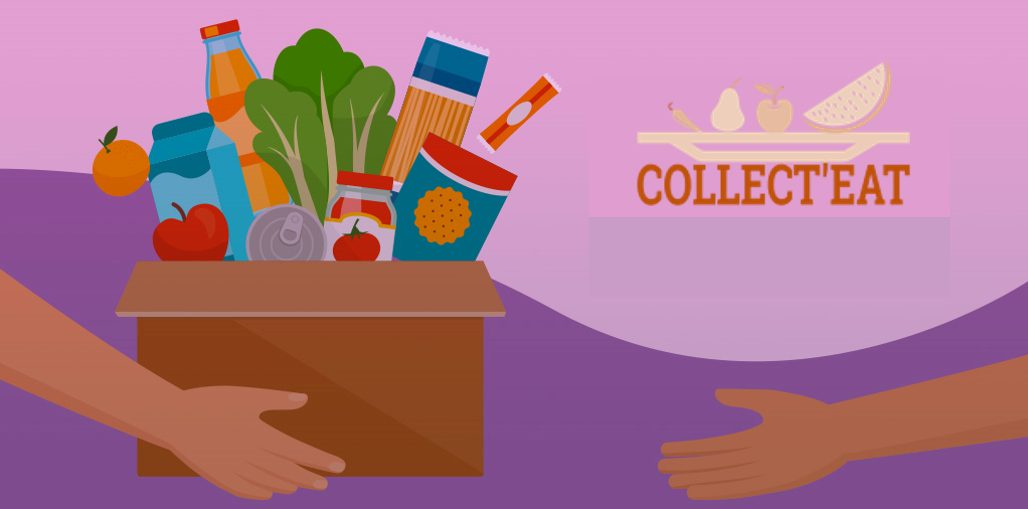
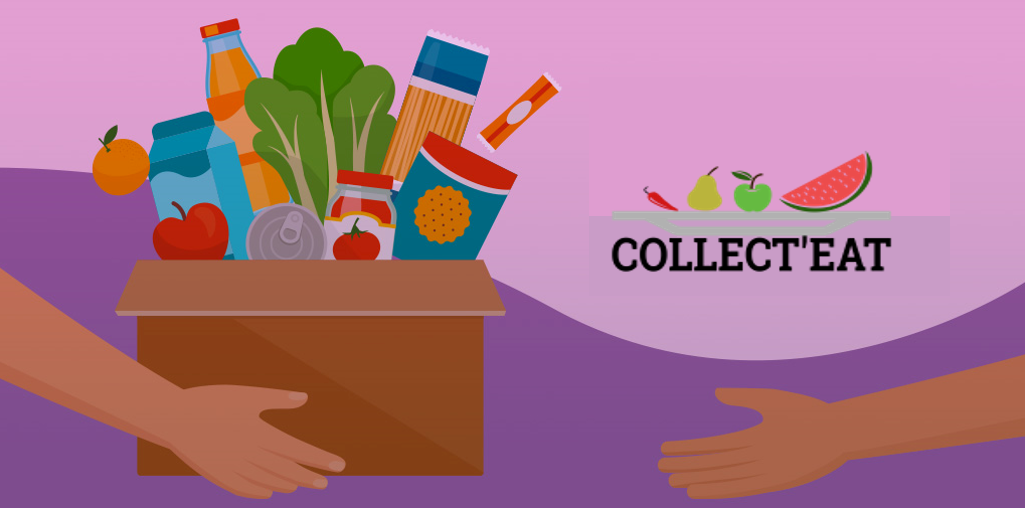
added tuto + design fixes

diff --git a/src/app/app.component.html b/src/app/app.component.html
@@ -1,129 +1,6 @@
 <ion-app [class.dark-theme]="dark">
   <ion-split-pane contentId="main-content">
 
-    <ion-menu contentId="main-content">
-      <ion-content>
-        <ion-list *ngIf="role === 'user'" lines="none">
-          <ion-list-header>
-            Conference
-          </ion-list-header>
-          <ion-menu-toggle autoHide="false" *ngFor="let p of appPages; let i = index">
-            <ion-item [routerLink]="p.url" routerLinkActive="selected" routerDirection="root" detail="false">
-              <ion-icon slot="start" [name]="p.icon + '-outline'"></ion-icon>
-              <ion-label>
-                {{p.title}}
-              </ion-label>
-            </ion-item>
-
-          </ion-menu-toggle>
-        </ion-list>
-
-        <ion-list *ngIf="loggedIn" lines="none">
-          <ion-list-header>
-            Account
-          </ion-list-header>
-
-          <ion-menu-toggle *ngIf="role === 'user'" autoHide="false">
-            <ion-item routerLink="/account" routerLinkActive="active" routerDirection="root" detail="false">
-              <ion-icon slot="start" name="person"></ion-icon>
-              <ion-label>
-                Account
-              </ion-label>
-            </ion-item>
-          </ion-menu-toggle>
-
-          <ion-menu-toggle autoHide="false">
-            <ion-item routerLink="/support" routerLinkActive="active" routerDirection="root" detail="false">
-              <ion-icon slot="start" name="help"></ion-icon>
-              <ion-label>
-                Support
-              </ion-label>
-            </ion-item>
-          </ion-menu-toggle>
-
-          <ion-menu-toggle autoHide="false">
-            <ion-item button (click)="logout()" detail="false">
-              <ion-icon slot="start" name="log-out"></ion-icon>
-              <ion-label>
-                Logout
-              </ion-label>
-            </ion-item>
-          </ion-menu-toggle>
-
-          <ion-menu-toggle *ngIf="role === 'mairie'" autoHide="false">
-            <ion-item routerLink="/signup" routerLinkActive="active" routerDirection="root" detail="false">
-              <ion-icon slot="start" name="person-add"></ion-icon>
-              <ion-label>
-                Signup
-              </ion-label>
-            </ion-item>
-          </ion-menu-toggle>
-
-          <ion-item>
-            <ion-icon slot="start" name="moon-outline"></ion-icon>
-            <ion-label>
-              Dark Mode
-            </ion-label>
-            <ion-toggle [(ngModel)]="dark"></ion-toggle>
-          </ion-item>
-
-        </ion-list>
-
-        <ion-list *ngIf="!loggedIn" lines="none">
-          <ion-list-header>
-            Account
-          </ion-list-header>
-
-          <ion-menu-toggle autoHide="false">
-            <ion-item routerLink="/login" routerLinkActive="active" routerDirection="root" detail="false">
-              <ion-icon slot="start" name="log-in"></ion-icon>
-              <ion-label>
-                Login
-              </ion-label>
-            </ion-item>
-          </ion-menu-toggle>
-
-          <ion-menu-toggle autoHide="false">
-            <ion-item routerLink="/support" routerLinkActive="active" routerDirection="root" detail="false">
-              <ion-icon slot="start" name="help"></ion-icon>
-              <ion-label>
-                Support
-              </ion-label>
-            </ion-item>
-          </ion-menu-toggle>
-
-          <ion-menu-toggle *ngIf="role === 'mairie'" autoHide="false">
-            <ion-item routerLink="/signup" routerLinkActive="active" routerDirection="root" detail="false">
-              <ion-icon slot="start" name="person-add"></ion-icon>
-              <ion-label>
-                Signup
-              </ion-label>
-            </ion-item>
-          </ion-menu-toggle>
-
-          <ion-item>
-            <ion-icon slot="start" name="moon-outline"></ion-icon>
-            <ion-label>
-              Dark Mode
-            </ion-label>
-            <ion-toggle [(ngModel)]="dark"></ion-toggle>
-          </ion-item>
-        </ion-list>
-
-        <ion-list lines="none">
-          <ion-list-header>
-            Tutorial
-          </ion-list-header>
-          <ion-menu-toggle autoHide="false">
-            <ion-item button (click)="openTutorial()" detail="false">
-              <ion-icon slot="start" name="hammer"></ion-icon>
-              <ion-label>Show Tutorial</ion-label>
-            </ion-item>
-          </ion-menu-toggle>
-        </ion-list>
-      </ion-content>
-    </ion-menu>
-
     <ion-router-outlet id="main-content"></ion-router-outlet>
 
   </ion-split-pane>

diff --git a/src/app/pages/tutorial/tutorial.html b/src/app/pages/tutorial/tutorial.html
@@ -1,7 +1,7 @@
 <ion-header no-border>
   <ion-toolbar>
     <ion-buttons slot="end">
-      <ion-button color='primary' (click)="startApp()" [hidden]="!showSkip">Skip</ion-button>
+      <ion-button class="skip" color='white' (click)="startApp()" [hidden]="!showSkip">Passer</ion-button>
     </ion-buttons>
   </ion-toolbar>
 </ion-header>
@@ -9,39 +9,60 @@
 <ion-content fullscreen="true">
   <ion-slides #slides (ionSlideWillChange)="onSlideChangeStart($event)" pager="false">
     <ion-slide>
-      <img src="assets/img/ica-slidebox-img-1.png" class="slide-image" />
+      <img src="assets/img/logo.png"  />
       <h2 class="slide-title">
-        Welcome to
-        <b>ICA</b>
+        Bienvenue sur
+        <b>Collect'EAT !</b>
       </h2>
       <p>
-        The
-        <b>ionic conference app</b> is a practical preview of the ionic framework in action, and a demonstration of proper code
-        use.
+        L'application
+        <b>Collect'EAT</b> permet de vous accompagner dans votre quotidien afin de faciliter l'accès à vos droits, nous allons ici vous présenter les différentes fonctionalités.
+        <br/><br/>
+        <b>Faites glisser l'écran pour continuer</b>
       </p>
     </ion-slide>
 
     <ion-slide>
-      <img src="assets/img/ica-slidebox-img-2.png" class="slide-image" />
-      <h2 class="slide-title">What is Ionic?</h2>
+      <img src="assets/img/menu.PNG" class="slide-image" />
+      <h2 class="slide-title">Menu principal</h2>
       <p>
-        <b>Ionic Framework</b> is an open source SDK that enables developers to build high quality mobile apps with web technologies
-        like HTML, CSS, and JavaScript.</p>
+        Le menu principal de l'application vous d'accéder rapidement à toutes les fonctionalités proposées</p>
     </ion-slide>
 
     <ion-slide>
-      <img src="assets/img/ica-slidebox-img-3.png" class="slide-image" />
-      <h2 class="slide-title">What is Ionic Appflow?</h2>
+      <img src="assets/img/qr-code.PNG" class="slide-image" />
+      <h2 class="slide-title">Pass collecte <ion-icon name="qr-code" class="big"></ion-icon></h2>
       <p>
-        <b>Ionic Appflow</b> is a powerful set of services and features built on top of Ionic Framework that brings a totally new
-        level of app development agility to mobile dev teams.</p>
+        Le bouton <b>Pass collecte</b> permet de générer un QR-code à présenter lors de la distribution des paniers repas afin de pouvoir retirer votre panier.</p>
     </ion-slide>
 
     <ion-slide>
-      <img src="assets/img/ica-slidebox-img-4.png" class="slide-image" />
-      <h2 class="slide-title">Ready to Play?</h2>
+      <img src="assets/img/map.PNG" class="slide-image" />
+      <h2 class="slide-title">Trouver le centre de distribution <ion-icon class="big" name="navigate"></ion-icon> </h2>
+      <p>
+        Le bouton <b>Trouver le centre de distribution</b> affiche une carte vous indiquant le centre de distribution où retirer votre panier repas.</p>
+    </ion-slide>
+
+    <ion-slide>
+      <img src="assets/img/safe.png" class="slide-image" />
+      <h2 class="slide-title">Coffre-fort numérique <ion-icon class="big" name="lock-closed"></ion-icon> </h2>
+      <p>
+        Le bouton <b>Coffre-fort numérique</b> permet d'accéder à votre espace de sotckage sécurisée où vous pouvez ajouter vos documents</p>
+    </ion-slide>
+
+    
+    <ion-slide>
+      <img src="assets/img/chat.png" class="slide-image" />
+      <h2 class="slide-title">Contacter votre assistante sociale<ion-icon class="big" name="chatbubbles"></ion-icon> </h2>
+      <p>
+        Besoin d'aide ? Le bouton <b>Contacter votre assistante sociale</b> permet de contacter votre assistante sociale pour vous assiter sur le fonctionnement de l'application ou pour tout autre question.</p>
+    </ion-slide>
+
+    <ion-slide>
+      <img src="assets/img/home-bg.png" />
+      <h2 class="slide-title">Merci d'utiliser <b>Collect'EAT !</b></h2>
       <ion-button fill="clear" (click)="startApp()">
-        Continue
+        Continuer
         <ion-icon slot="end" name="arrow-forward"></ion-icon>
       </ion-button>
     </ion-slide>

diff --git a/src/app/pages/login/login.html b/src/app/pages/login/login.html
@@ -6,7 +6,7 @@
   <form #loginForm="ngForm" novalidate>
     <ion-list>
       <ion-item>
-        <ion-label position="stacked" color="primary">Username</ion-label>
+        <ion-label position="stacked" color="primary">Nom d'utilisateur</ion-label>
         <ion-input [(ngModel)]="login.username" name="username" type="text" #username="ngModel" spellcheck="false" autocapitalize="off"
           required>
         </ion-input>
@@ -14,28 +14,31 @@
 
       <ion-text color="danger">
         <p [hidden]="username.valid || submitted == false" class="ion-padding-start">
-          Username is required
+          Nom d'utilisateur requis
         </p>
       </ion-text>
 
       <ion-item>
-        <ion-label position="stacked" color="primary">Password</ion-label>
+        <ion-label position="stacked" color="primary">Mot de passe</ion-label>
         <ion-input [(ngModel)]="login.password" name="password" type="password" #password="ngModel" required>
         </ion-input>
       </ion-item>
 
       <ion-text color="danger">
         <p [hidden]="password.valid || submitted == false" class="ion-padding-start">
-          Password is required
+          Mot de passe requis
         </p>
       </ion-text>
     </ion-list>
 
     <ion-row>
       <ion-col>
-        <ion-button (click)="onLogin(loginForm)" type="submit" expand="block">Login</ion-button>
+        <ion-button (click)="onLogin(loginForm)" type="submit" expand="block">Se connecter</ion-button>
       </ion-col>
     </ion-row>
   </form>
+  <div style="width: 100%;height:50%;background-color: rgb(243,242,242)">
+
+  </div>
 
 </ion-content>

diff --git a/src/app/pages/allergies/allergies.html b/src/app/pages/allergies/allergies.html
@@ -17,12 +17,12 @@
   <ion-list-header id="header">Veuillez sélectionner les aliments auxquels vous êtes allergiques.</ion-list-header>
 
   <ion-list #allergiesList>
-    <ion-chip color="primary" *ngFor="let allergy of allergies" (click)="allergy.enabled = !allergy.enabled; allergiesChanged = true">
+    <ion-chip size="large" color="primary" *ngFor="let allergy of allergies" (click)="allergy.enabled = !allergy.enabled; allergiesChanged = true">
       <ion-label>{{allergy.name}}</ion-label>
       <ion-icon name="checkmark-outline" *ngIf="allergy.enabled"></ion-icon>
     </ion-chip>
   </ion-list>
-  <ion-button id="saveButton" expand="block" *ngIf="allergiesChanged" (click)="save()" color="success">
+  <ion-button size="large" id="saveButton" expand="block" *ngIf="allergiesChanged" (click)="save()" color="success">
     <ion-icon id="saveIcon" name="save-outline"></ion-icon>
     Sauvegarder
   </ion-button>

diff --git a/src/app/pages/chat/chat.component.html b/src/app/pages/chat/chat.component.html
@@ -1,6 +1,10 @@
+<ion-header>
+  <ion-toolbar>
+    <ion-title >Discussion avec {{contact.firstName}}  {{contact.lastName}}</ion-title>
+  </ion-toolbar>
+</ion-header>
 <ion-content fullscreen>
   <ion-list>
-    <ion-list-header>Discussion avec {{contact.firstName}}  {{contact.lastName}}</ion-list-header>
     <ng-container *ngFor="let msg of messages">
       <ion-item *ngIf="!msg.incoming">
         <ion-thumbnail slot="end">

diff --git a/src/app/pages/tabs-page/tabs-page.html b/src/app/pages/tabs-page/tabs-page.html
@@ -21,6 +21,11 @@
       <ion-label>Compte</ion-label>
     </ion-tab-button>
 
+    <ion-tab-button *ngIf="role === 'user'" (click)="goToTuto()">
+      <ion-icon name="help-circle-outline"></ion-icon>
+      <ion-label>Tutoriel</ion-label>
+    </ion-tab-button>
+
     <ion-tab-button (click)="logout()">
       <ion-icon name="exit"></ion-icon>
       <ion-label>Deconnexion</ion-label>

diff --git a/src/app/pages/basket-creation/basket-creation.page.html b/src/app/pages/basket-creation/basket-creation.page.html
@@ -1,9 +1,9 @@
-<ion-header>
+<ion-header style="background-color:rgb(0, 46, 161)">
   <ion-toolbar>
     <ion-buttons slot="start">
       <ion-menu-button></ion-menu-button>
     </ion-buttons>
-    <ion-title>Création de panier</ion-title>
+    <ion-title style="color: white;font-weight: bold;">{{'Création de panier' | uppercase}}</ion-title>
   </ion-toolbar>
 </ion-header>
 

diff --git a/src/app/pages/tutorial/tutorial.scss b/src/app/pages/tutorial/tutorial.scss
@@ -22,13 +22,24 @@ b {
   font-weight: 500;
 }
 
+h2{
+  b {
+    color: var(--ion-text-color, #000000);
+    font-weight: bold;
+  }
+}
+
 p {
   padding: 0 40px;
-  font-size: 14px;
+  font-size: 18px;
   line-height: 1.5;
   color: var(--ion-color-step-600, #60646b);
 
   b {
     color: var(--ion-text-color, #000000);
   }
+}
+
+.skip {
+  color: white;
 }

diff --git a/src/app/providers/check-tutorial.service.ts b/src/app/providers/check-tutorial.service.ts
@@ -11,7 +11,7 @@ export class CheckTutorial implements CanLoad {
     return this.storage.get('ion_did_tutorial').then(res => {
       if (res) {
         this.router.navigate(['/app', 'tabs', 'schedule']);
-        return false;
+        return true;
       } else {
         return true;
       }

diff --git a/src/app/pages/account/account.html b/src/app/pages/account/account.html
@@ -1,9 +1,6 @@
 <ion-header>
   <ion-toolbar>
-    <ion-buttons slot="start">
-      <ion-menu-button></ion-menu-button>
-    </ion-buttons>
-    <ion-title>Account</ion-title>
+    <ion-title>{{"Compte" | uppercase}}</ion-title>
   </ion-toolbar>
 </ion-header>
 

diff --git a/src/app/pages/signup/signup.html b/src/app/pages/signup/signup.html
@@ -3,7 +3,7 @@
     <ion-buttons slot="start">
       <ion-menu-button></ion-menu-button>
     </ion-buttons>
-    <ion-title>Nouveau bénéficiaire</ion-title>
+    <ion-title>{{"Nouveau bénéficiaire" | uppercase}}</ion-title>
   </ion-toolbar>
 </ion-header>
 

diff --git a/src/app/pages/allergies/allergies.scss b/src/app/pages/allergies/allergies.scss
@@ -34,14 +34,19 @@ p {
 }
 
 #saveIcon {
-  margin-right: 1em;
+  margin-right: 3%;
 }
 
 #saveButton {
   margin: 2em auto;
-  width: 50%;
+  width: 80%;
 }
 
 #header {
   margin-top: 1em;
+}
+
+ion-chip{
+  font-size: 25px;
+  min-height: 3em;
 }
